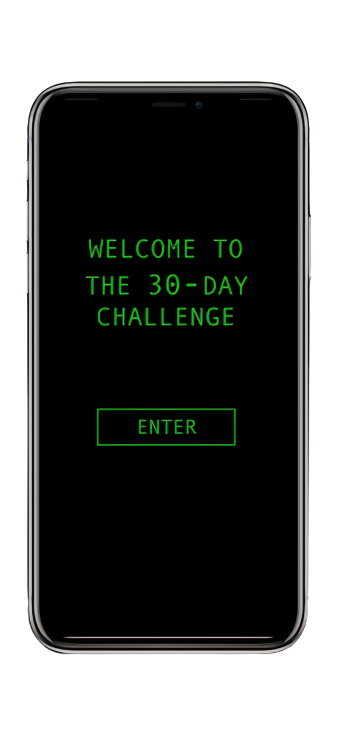
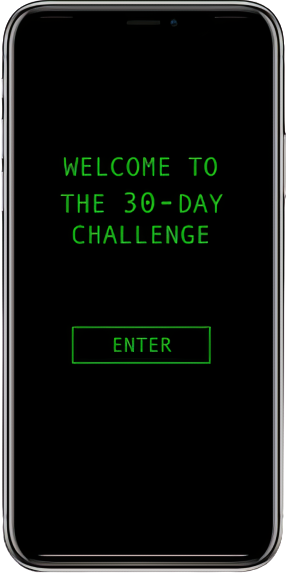
15 changes

diff --git a/css/styles.css b/css/styles.css
@@ -66,7 +66,7 @@ html{
     position: absolute;
     width: 100%;
     height: 100%;
-    background-color: rgba(0,0,0,0.8);
+    background-color: rgba(0,0,0,0.4);
     display: grid;
     grid-template-rows: 1fr 0.6fr 1fr;
 }
@@ -84,12 +84,14 @@ html{
 
 .main3 h3{
     font-family: 'georgia';
-    src: url(../fonts/Georgia.ttf);
+    
     font-weight: 300;
     position: relative;
     top: 30%;
     transform: translateY(-50%);
-    font-size: 20px;
+    font-size: 26px;
+     font-family: 'Montserrat', sans-serif;
+    font-weight: 450;
 }
 
 .main2{
@@ -105,18 +107,18 @@ html{
     max-height: 68px; 
 }
 
+.apple{
+    background-image: url(../media/4pxoutlineapple.png);
+    background-repeat: no-repeat; 
+    background-size: contain;
+    background-position: left;
+}
+
 .google{
     background-image: url(../media/playvector.png);
     background-repeat: no-repeat; 
     background-size: contain;
     background-position: right;
-}
-
-.apple{
-    background-image: url(../media/applevector.png);
-    background-repeat: no-repeat; 
-    background-size: contain;
-    background-position: left;
 }
 
 @media(min-width: 700px){
@@ -125,7 +127,7 @@ html{
     }
     
     .main h3{
-        font-size: 30px;
+        font-size: 38px;
     }
 }
 
@@ -138,6 +140,9 @@ html{
 .preview-wrapper{
     background-image: linear-gradient(to  bottom, #58fb55, black);
     padding: 20px;
+    padding-top: 0;
+    padding-bottom: 0;
+    padding: left
 }
 
 .preview{
@@ -146,7 +151,7 @@ html{
     display: grid;
     grid-template-rows: 1fr 0.85fr;
     padding: 10px;
-    background-color: black
+    background-color: black;
 
 }
 
@@ -155,6 +160,8 @@ html{
     display: grid;
     grid-template-rows: 1fr;
     height: auto;
+    
+    
 }
 
 .title{
@@ -180,8 +187,9 @@ html{
     font-style: italic;
     padding: 25px;
     padding-bottom: 0;
-    padding-top: 5px;
+    padding-top: 30px;
     font-family: 'Lora', serif;
+    font-weight: 500;
 }
 
 #second{
@@ -202,14 +210,14 @@ html{
 
 .image{
     
-    padding: 20px;
+    padding: 10px;
     
 }
 .image-wrapper{
     background-image: url(../media/asset3.png);
     background-repeat: no-repeat;
-    background-size: contain;
     background-position: center;
+    background-size: contain;
     height: 100%;
 }
 
@@ -224,6 +232,10 @@ html{
        .preview{
            display: grid;
            padding: 0;
+           padding-left: 90px;
+           padding-top:30px; 
+           padding-bottom: 30px;
+         
            width: 800px;
            position: relative;
            background-repeat: no-repeat; 
@@ -231,11 +243,13 @@ html{
     
            left: 50%;
            transform: translateX(-50%);
+           box-sizing: content-box
        }
        
        .text{
            display: block;
            padding: 0;
+           
            
        }
        
@@ -252,13 +266,14 @@ html{
 .footer{
     width: 100%; 
     height: 60px; 
-    background-color: #3e3737;
+    background-color: black;
 }
 
 .footer h6{
     font-size: 15px; 
     position: relative;
-    top: 30px
+    top: 50%;
+    transform: translateY(-50%);
 }
 
 .icon-wrapper{
@@ -279,19 +294,7 @@ html{
     padding: 5px;
 }
 
-#google{
-    background-image: url(../media/google.png);
-    background-repeat: no-repeat;
-    background-size: 80%;
-    background-position: center; 
-}
 
-#apple{
-    background-image: url(../media/apple.png);
-    background-repeat: no-repeat;
-    background-size: 80%;
-    background-position: center; 
-}
 
 @media only screen and (max-width: 1300px){
     .icon-wrapper{

diff --git a/index.html b/index.html
@@ -36,8 +36,8 @@
         <div class="over">
             <div class="main main1"><h1>JOIN THE 30-DAY<br>CHALLENGE</h1></div>
             <div class="main main2">
-                <div class="store google"></div>
-                <div class="store apple"></div>
+                <a href="" class="store google"></a>
+                <a href="" class="store apple"></a>
             </div>
             <div class="main main3"><h3>Will you last 30 days?</h3></div>
         </div>
@@ -45,9 +45,7 @@
    <div class="preview-wrapper">
     <div class="preview">
         <div class="text">
-            <div class="title">
-                <h4>ABOUT</h4>
-            </div>
+           
             <div class="content">
                 <h5 id="first">
                "In a racist society, it is not enough to be non-racist. we must be anti-racist." - Angela Davis<br><br>
